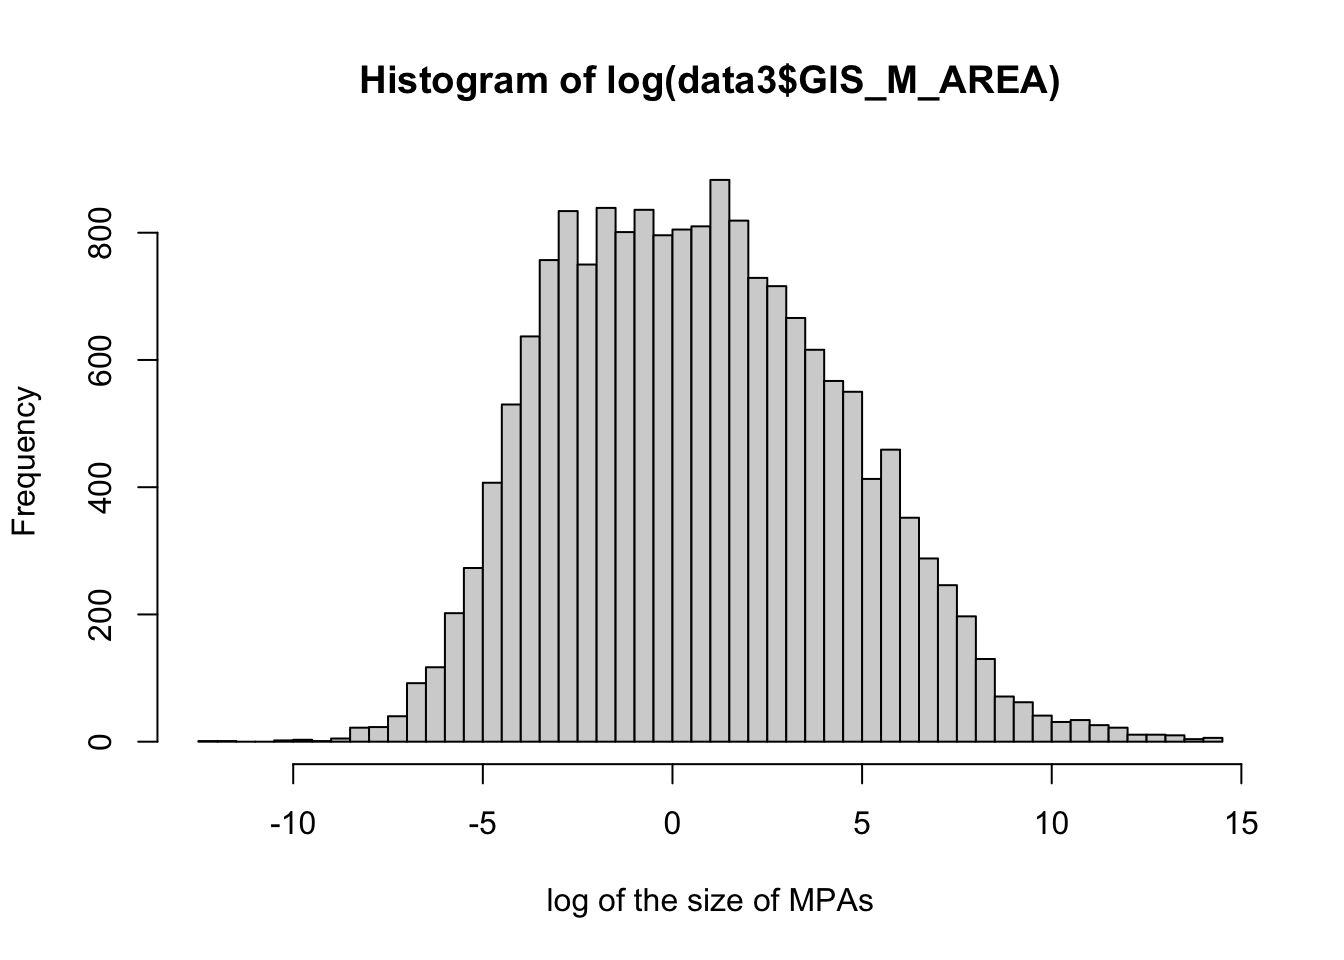
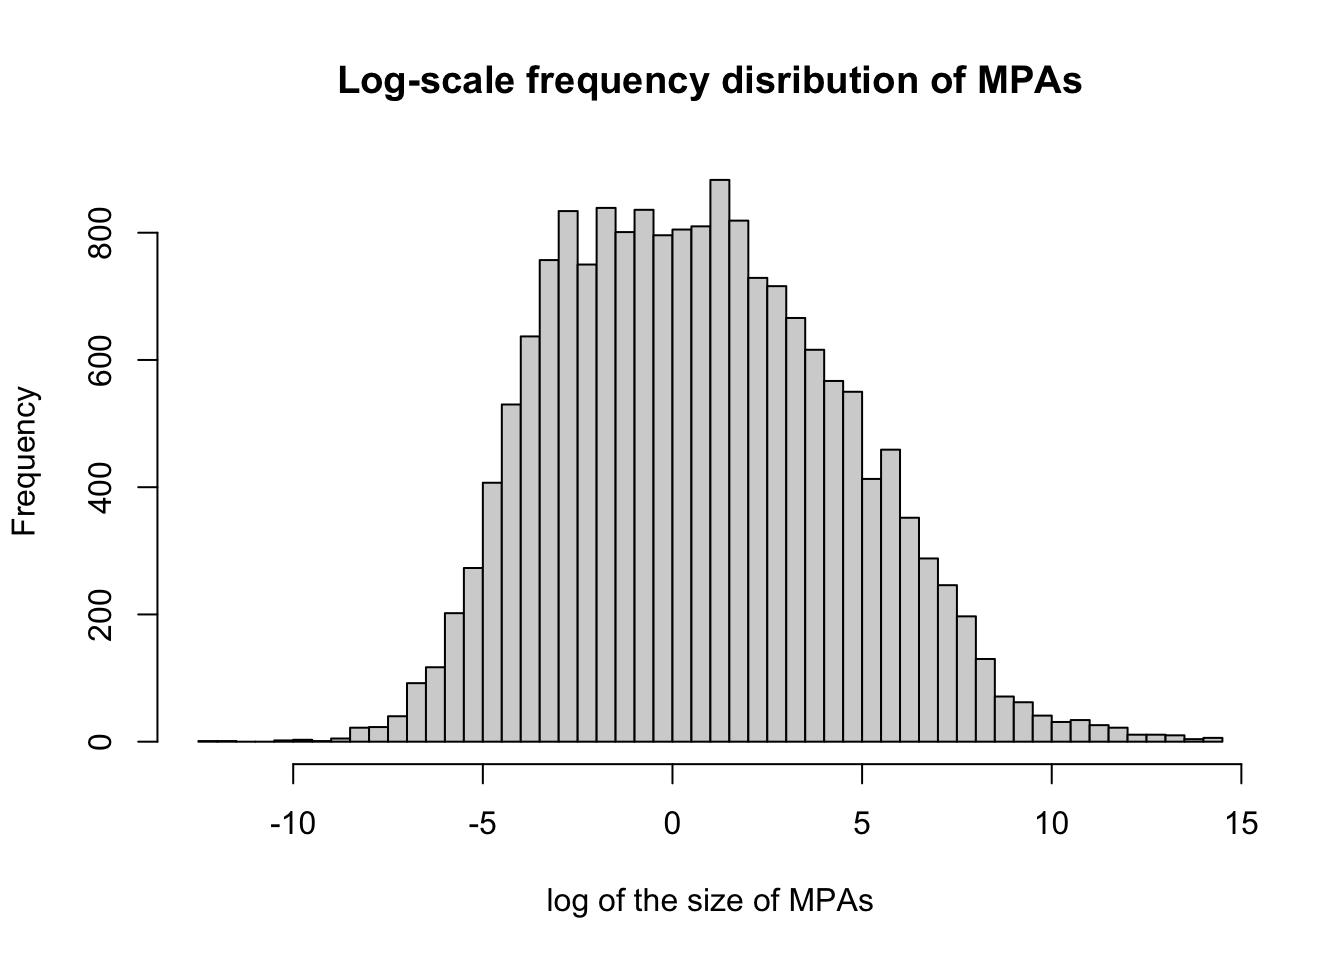
added plot labels

Changed region(s): [[0.25, 0.0625, 0.8125, 0.125]]

diff --git a/docs/how-to-do-the-analysis-in-r.html b/docs/how-to-do-the-analysis-in-r.html
@@ -294,7 +294,7 @@ To remove the <code>NA</code>s</p>
 <span id="cb23-2"><a href="how-to-do-the-analysis-in-r.html#cb23-2"></a><span class="st">  </span><span class="kw">group_by</span>(IUCN_CAT) <span class="op">%&gt;%</span></span>
 <span id="cb23-3"><a href="how-to-do-the-analysis-in-r.html#cb23-3"></a><span class="st">  </span><span class="kw">tally</span>()</span></code></pre></div>
 <p><strong>Approch 2: base R</strong></p>
-<div class="sourceCode" id="cb24"><pre class="sourceCode r"><code class="sourceCode r"><span id="cb24-1"><a href="how-to-do-the-analysis-in-r.html#cb24-1"></a>data4 &lt;-<span class="st"> </span><span class="kw">aggregate</span>(<span class="kw">cbind</span>(<span class="dt">n =</span> WDPAID) <span class="op">~</span><span class="st"> </span>IUCN_CAT, </span>
+<div class="sourceCode" id="cb24"><pre class="sourceCode r"><code class="sourceCode r"><span id="cb24-1"><a href="how-to-do-the-analysis-in-r.html#cb24-1"></a>data4 &lt;-<span class="st"> </span><span class="kw">aggregate</span>(<span class="kw">cbind</span>(<span class="dt">n =</span> IUCN_CAT) <span class="op">~</span><span class="st"> </span>IUCN_CAT, </span>
 <span id="cb24-2"><a href="how-to-do-the-analysis-in-r.html#cb24-2"></a>          <span class="dt">data =</span> data3, </span>
 <span id="cb24-3"><a href="how-to-do-the-analysis-in-r.html#cb24-3"></a>          <span class="dt">FUN =</span> <span class="cf">function</span>(x){<span class="kw">NROW</span>(x)})</span></code></pre></div>
 <p><strong>Both approaches</strong></p>
@@ -357,7 +357,11 @@ We can do this by grouping by the <code>IUCN_CAT</code> column of the dataset an
 <span id="cb32-4"><a href="how-to-do-the-analysis-in-r.html#cb32-4"></a>     <span class="dt">main =</span> <span class="st">&quot;The size-frequency distribution of MPAs&quot;</span>)   <span class="co"># Histogram without logarithmic axis</span></span></code></pre></div>
 <p><img src="marine-cons_files/figure-html/unnamed-chunk-26-1.png" width="672" /></p>
 <p>We can plot these results on a logarithm scale as:</p>
-<div class="sourceCode" id="cb33"><pre class="sourceCode r"><code class="sourceCode r"><span id="cb33-1"><a href="how-to-do-the-analysis-in-r.html#cb33-1"></a><span class="kw">hist</span>(<span class="kw">log</span>(data3<span class="op">$</span>GIS_M_AREA), <span class="dt">breaks =</span> <span class="dv">50</span>, <span class="dt">xlab =</span> <span class="st">&quot;log of the size of MPAs&quot;</span>, <span class="dt">ylab =</span> <span class="st">&quot;Frequency&quot;</span>)   <span class="co"># Histogram with logarithmic axis</span></span></code></pre></div>
+<div class="sourceCode" id="cb33"><pre class="sourceCode r"><code class="sourceCode r"><span id="cb33-1"><a href="how-to-do-the-analysis-in-r.html#cb33-1"></a><span class="kw">hist</span>(<span class="kw">log</span>(data3<span class="op">$</span>GIS_M_AREA),</span>
+<span id="cb33-2"><a href="how-to-do-the-analysis-in-r.html#cb33-2"></a>     <span class="dt">breaks =</span> <span class="dv">50</span>,</span>
+<span id="cb33-3"><a href="how-to-do-the-analysis-in-r.html#cb33-3"></a>     <span class="dt">xlab =</span> <span class="st">&quot;log of the size of MPAs&quot;</span>,</span>
+<span id="cb33-4"><a href="how-to-do-the-analysis-in-r.html#cb33-4"></a>     <span class="dt">ylab =</span> <span class="st">&quot;Frequency&quot;</span>,</span>
+<span id="cb33-5"><a href="how-to-do-the-analysis-in-r.html#cb33-5"></a>     <span class="dt">main =</span> <span class="st">&quot;Log-scale frequency disribution of MPAs&quot;</span>)   <span class="co"># Histogram with logarithmic axis</span></span></code></pre></div>
 <p><img src="marine-cons_files/figure-html/unnamed-chunk-27-1.png" width="672" /></p>
 <p>We can use a barplot to show the number of areas under each level of protection from the data contained in <code>data4</code>. Remember that <code>data4</code> has two columns:</p>
 <div class="sourceCode" id="cb34"><pre class="sourceCode r"><code class="sourceCode r"><span id="cb34-1"><a href="how-to-do-the-analysis-in-r.html#cb34-1"></a>data4</span></code></pre></div>
